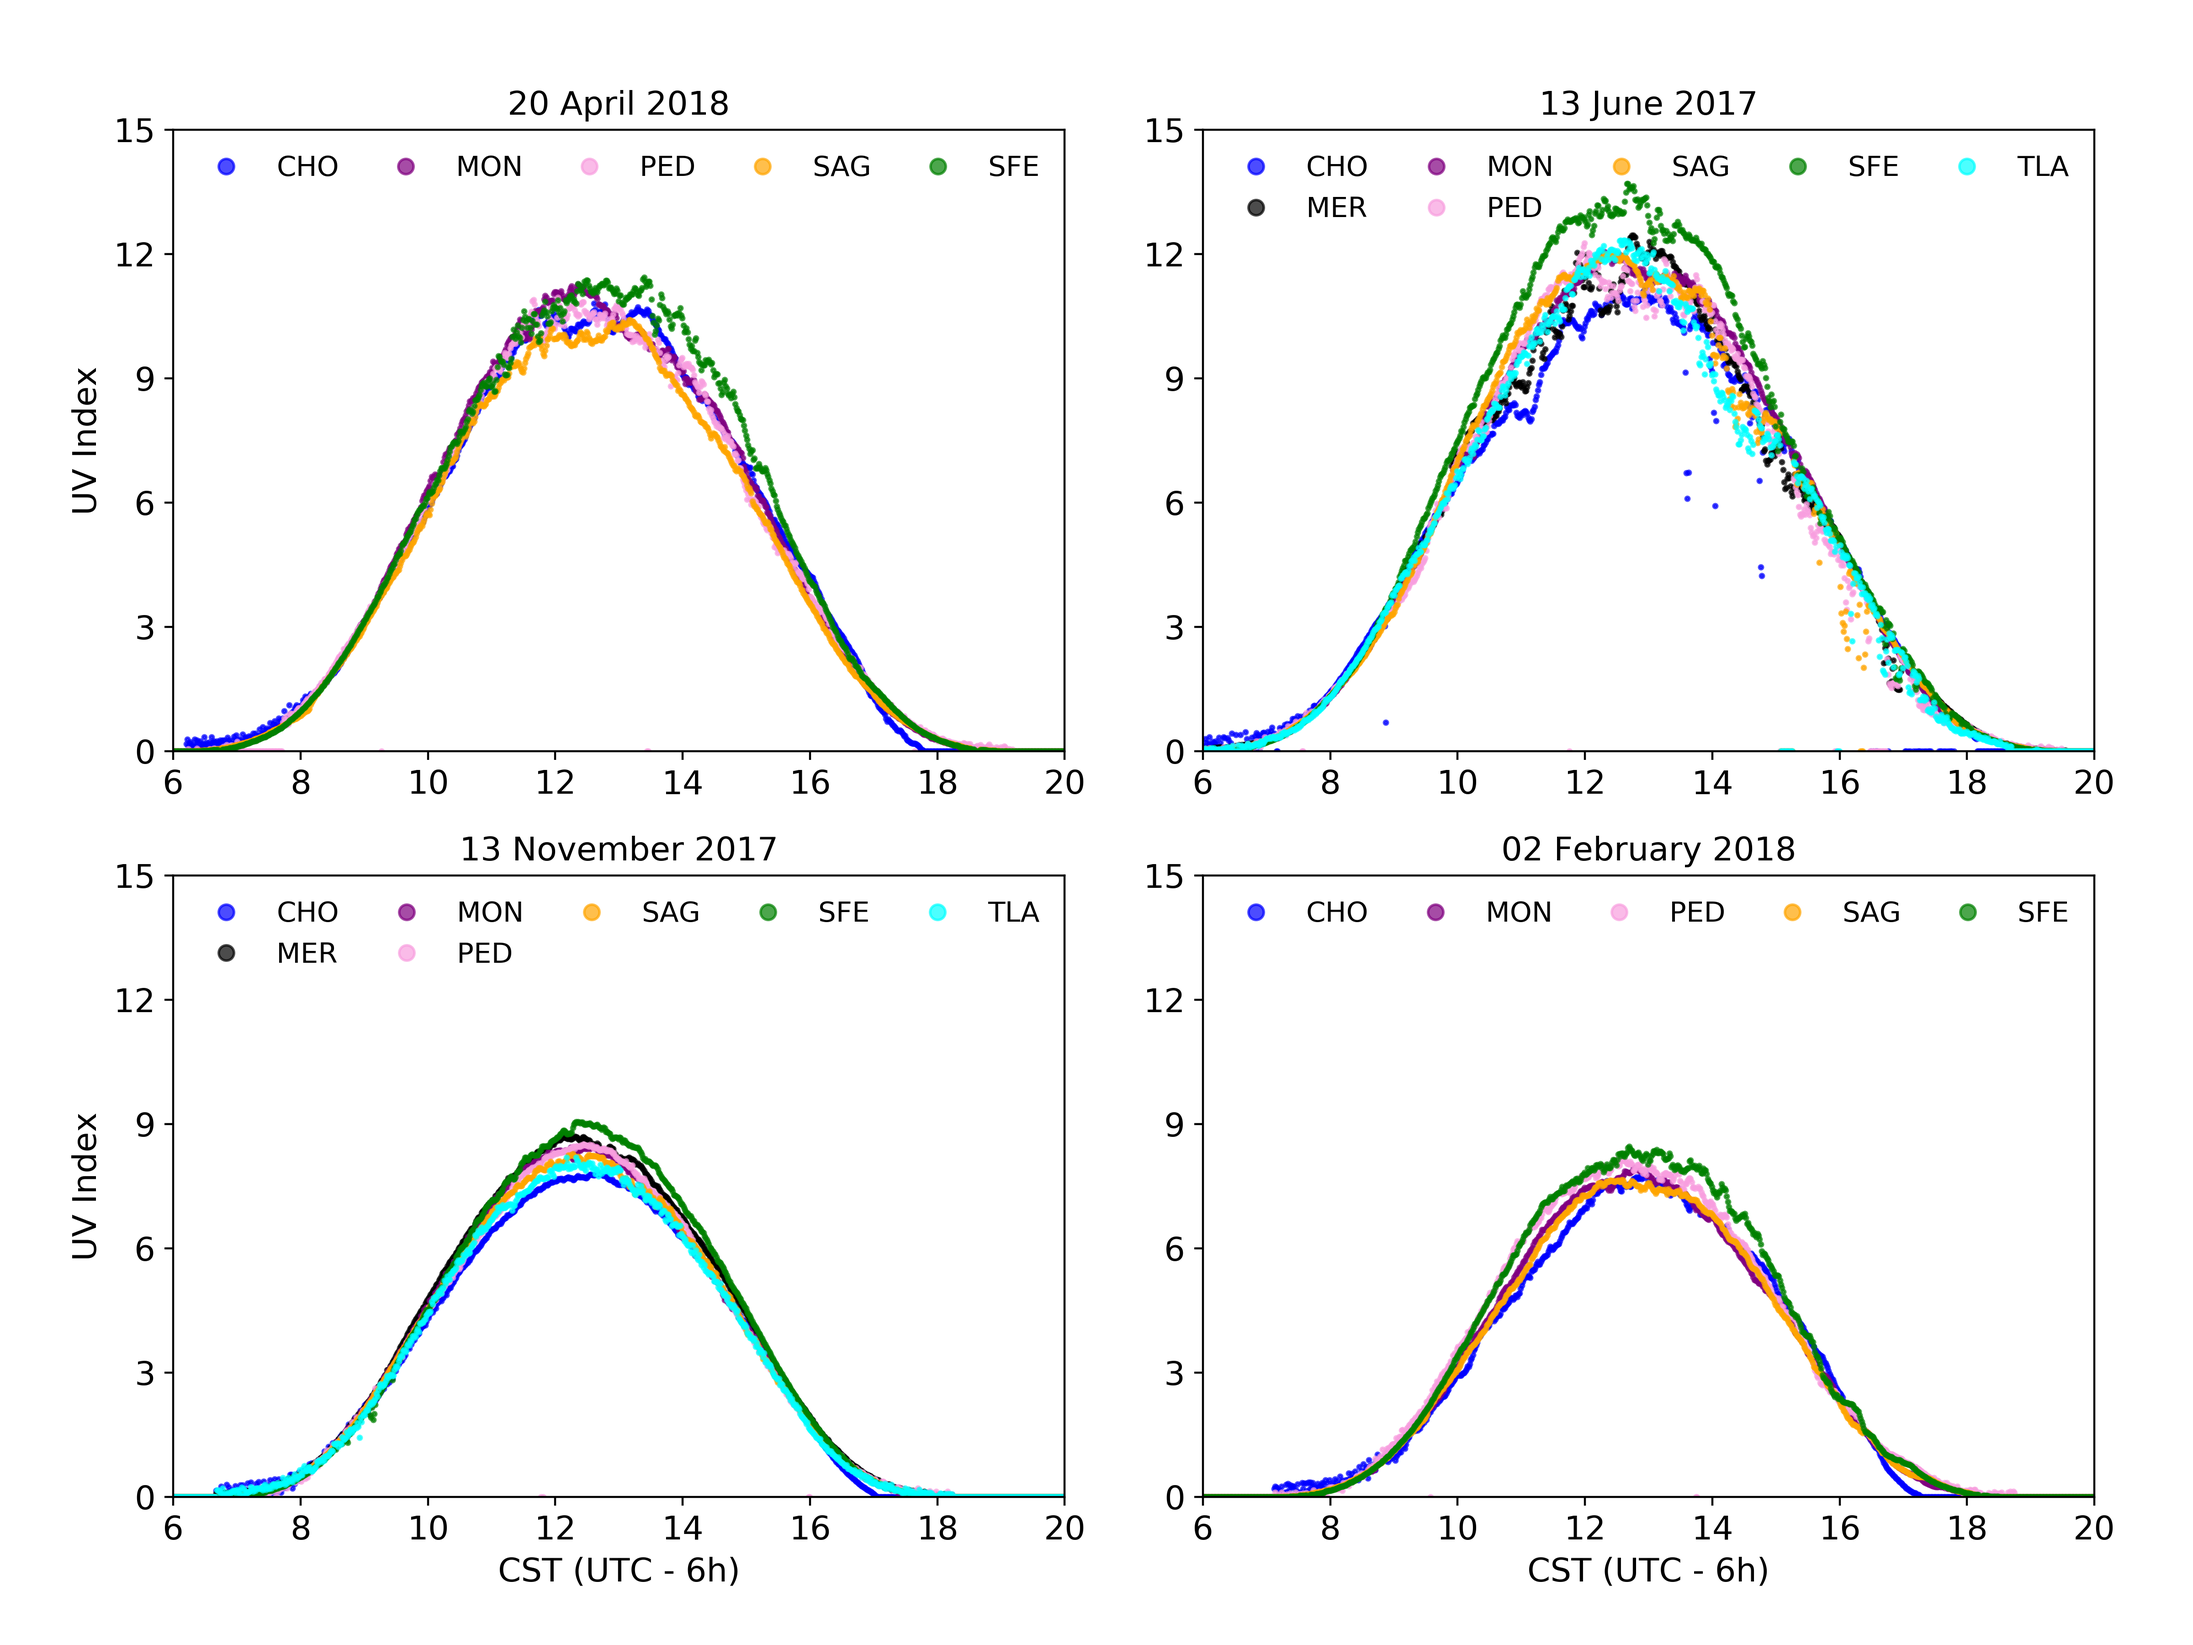
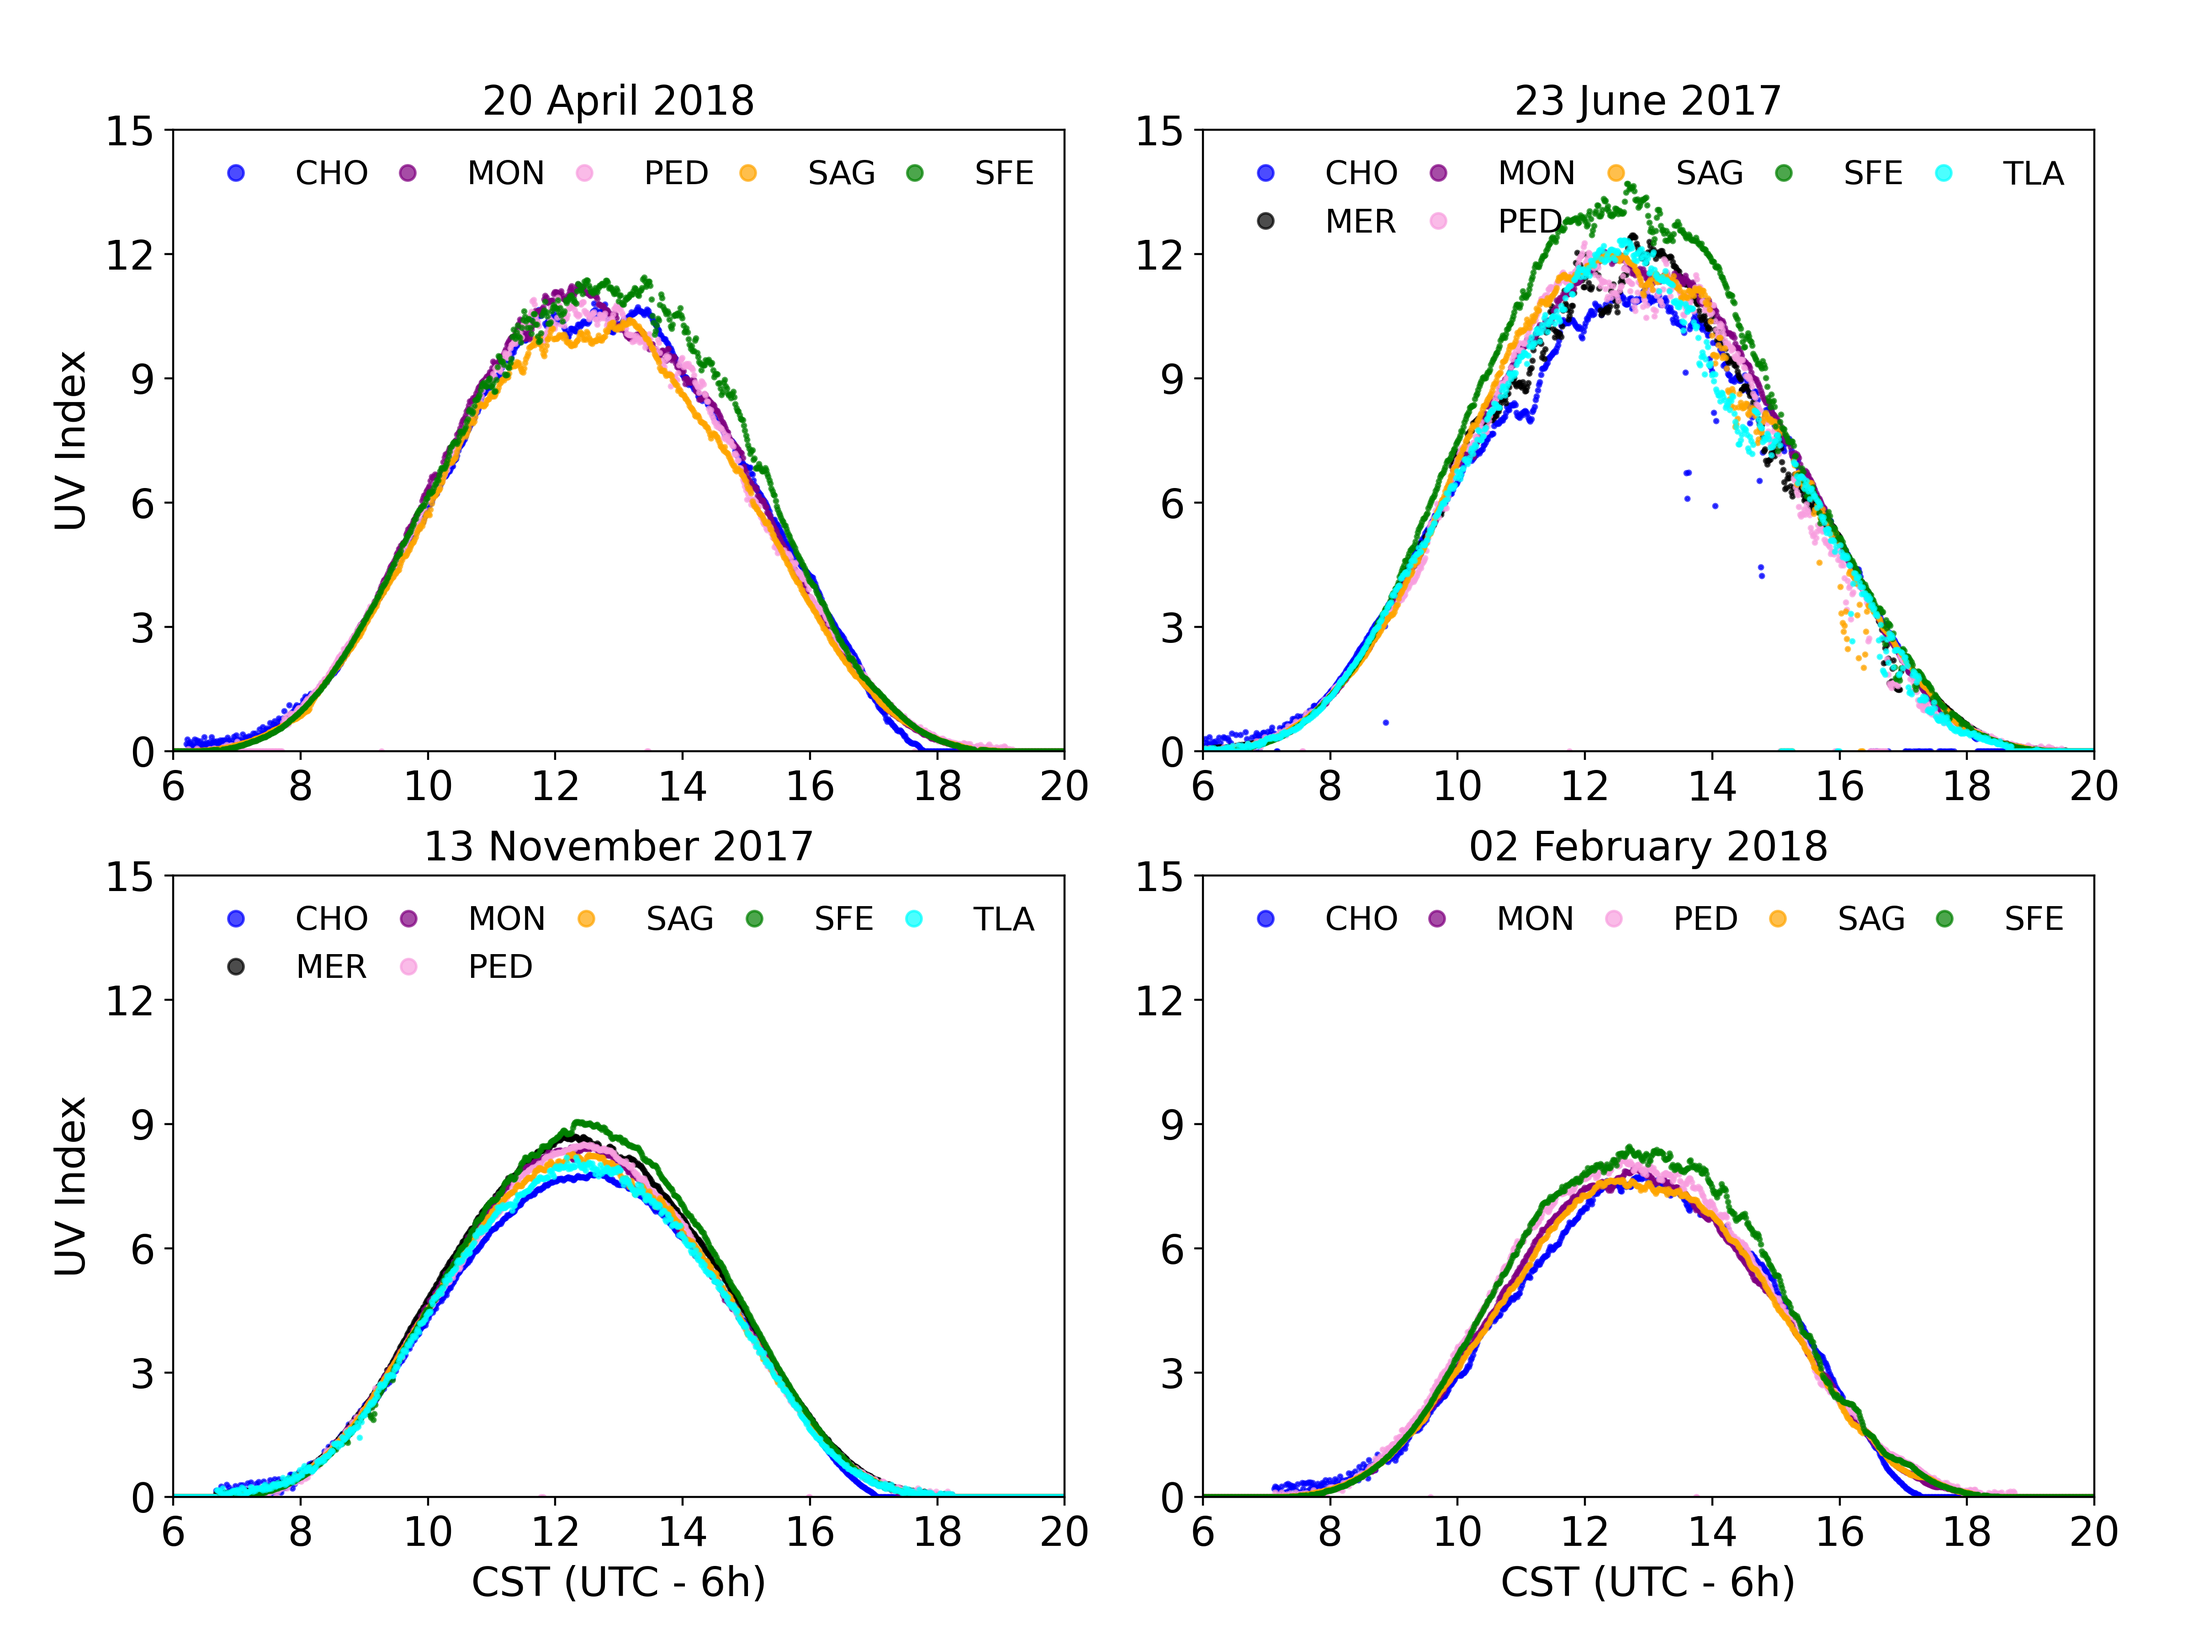
Reorganization parameters and update font sizes because de reviewer 2 says

diff --git a/2017-2018/Scripts/Python/Season_Graphics.py b/2017-2018/Scripts/Python/Season_Graphics.py
@@ -1,46 +1,53 @@
 import numpy as np
 import matplotlib.pyplot as plt
 import os
-colors = ["Blue",
-          "Green",
-          "black",
-          "purple",
-          "pink",
-          "#f89edf",
-          "orange",
-          "Green",
-          "cyan"]
-
-dates = ["180420",
-         "170623",
-         "171113",
-         "180202"]
-
-titles = ["20 April 2018",
-          "13 June 2017",
-          "13 November 2017",
-          "02 February 2018"]
-dir_stations = "../../Stations/"
+parameters = {
+    "path stations": "../../Stations/",
+    "path graphics": "../../Graphics/",
+    "graphics name": "season",
+    "fontsize ticks": 16,
+    "fontsize legend": 13,
+    "dates": {"180420": "20 April 2018",
+              "170623": "23 June 2017",
+              "171113": "13 November 2017",
+              "180202": "02 February 2018"},
+    "colors": {"CHO": "Blue",
+               "CUA": "#03071e",
+               "CUT": "#6a040f",
+               "FAC":  "#d00000",
+               "HAN": "#b07d62",
+               "LAA": "#7400b8",
+               "MER": "black",
+               "MON": "Purple",
+               "MPA": "#0096c7",
+               "PED": "#f89edf",
+               "SAG": "orange",
+               "SFE": "Green",
+               "TLA": "cyan",
+               }
+}
+dir_stations = parameters["path stations"]
 stations = sorted(os.listdir(dir_stations))
 fig, axs = plt.subplots(2, 2,
                         figsize=(12, 9))
-font_size = 13
 axs = np.reshape(axs, 4)
-for date, title, ax in zip(dates, titles, axs):
+for date, ax in zip(parameters["dates"], axs):
+    title = parameters["dates"][date]
     if ax in [axs[0], axs[2]]:
         ax.set_ylabel("UV Index",
-                      fontsize=font_size)
+                      fontsize=parameters["fontsize ticks"])
     if ax in [axs[2], axs[-1]]:
         ax.set_xlabel("CST (UTC - 6h)",
-                      fontsize=font_size)
+                      fontsize=parameters["fontsize ticks"])
     ax.set_title(title,
-                 fontsize=font_size)
+                 fontsize=parameters["fontsize ticks"])
     ax.set_ylim(0, 15)
     ax.set_yticks(np.arange(0, 15+3, 3))
     ax.set_xlim(6, 20)
     ax.set_xticks(np.arange(6, 19+2, 2))
-    ax.tick_params(labelsize=font_size)
-    for station, color in zip(stations, colors):
+    ax.tick_params(labelsize=parameters["fontsize ticks"])
+    for station in stations:
+        color = parameters["colors"][station]
         car = dir_stations+station+"/Mediciones/"
         hour, data = np.loadtxt(car+date+"Ery.csv",
                                 unpack=True,
@@ -60,11 +67,13 @@ for date, title, ax in zip(dates, titles, axs):
               markerscale=4,
               scatterpoints=1,
               frameon=False,
-              fontsize=11)
+              fontsize=parameters["fontsize legend"])
 plt.subplots_adjust(left=0.079,
                     bottom=0.09,
                     right=0.955,
                     top=0.921,
                     wspace=0.155,
                     hspace=0.2)
-plt.savefig("../../Graficas/season.png", dpi=400)
+plt.savefig("{}{}.png".format(parameters["path graphics"],
+                              parameters["graphics name"]),
+            dpi=400)
